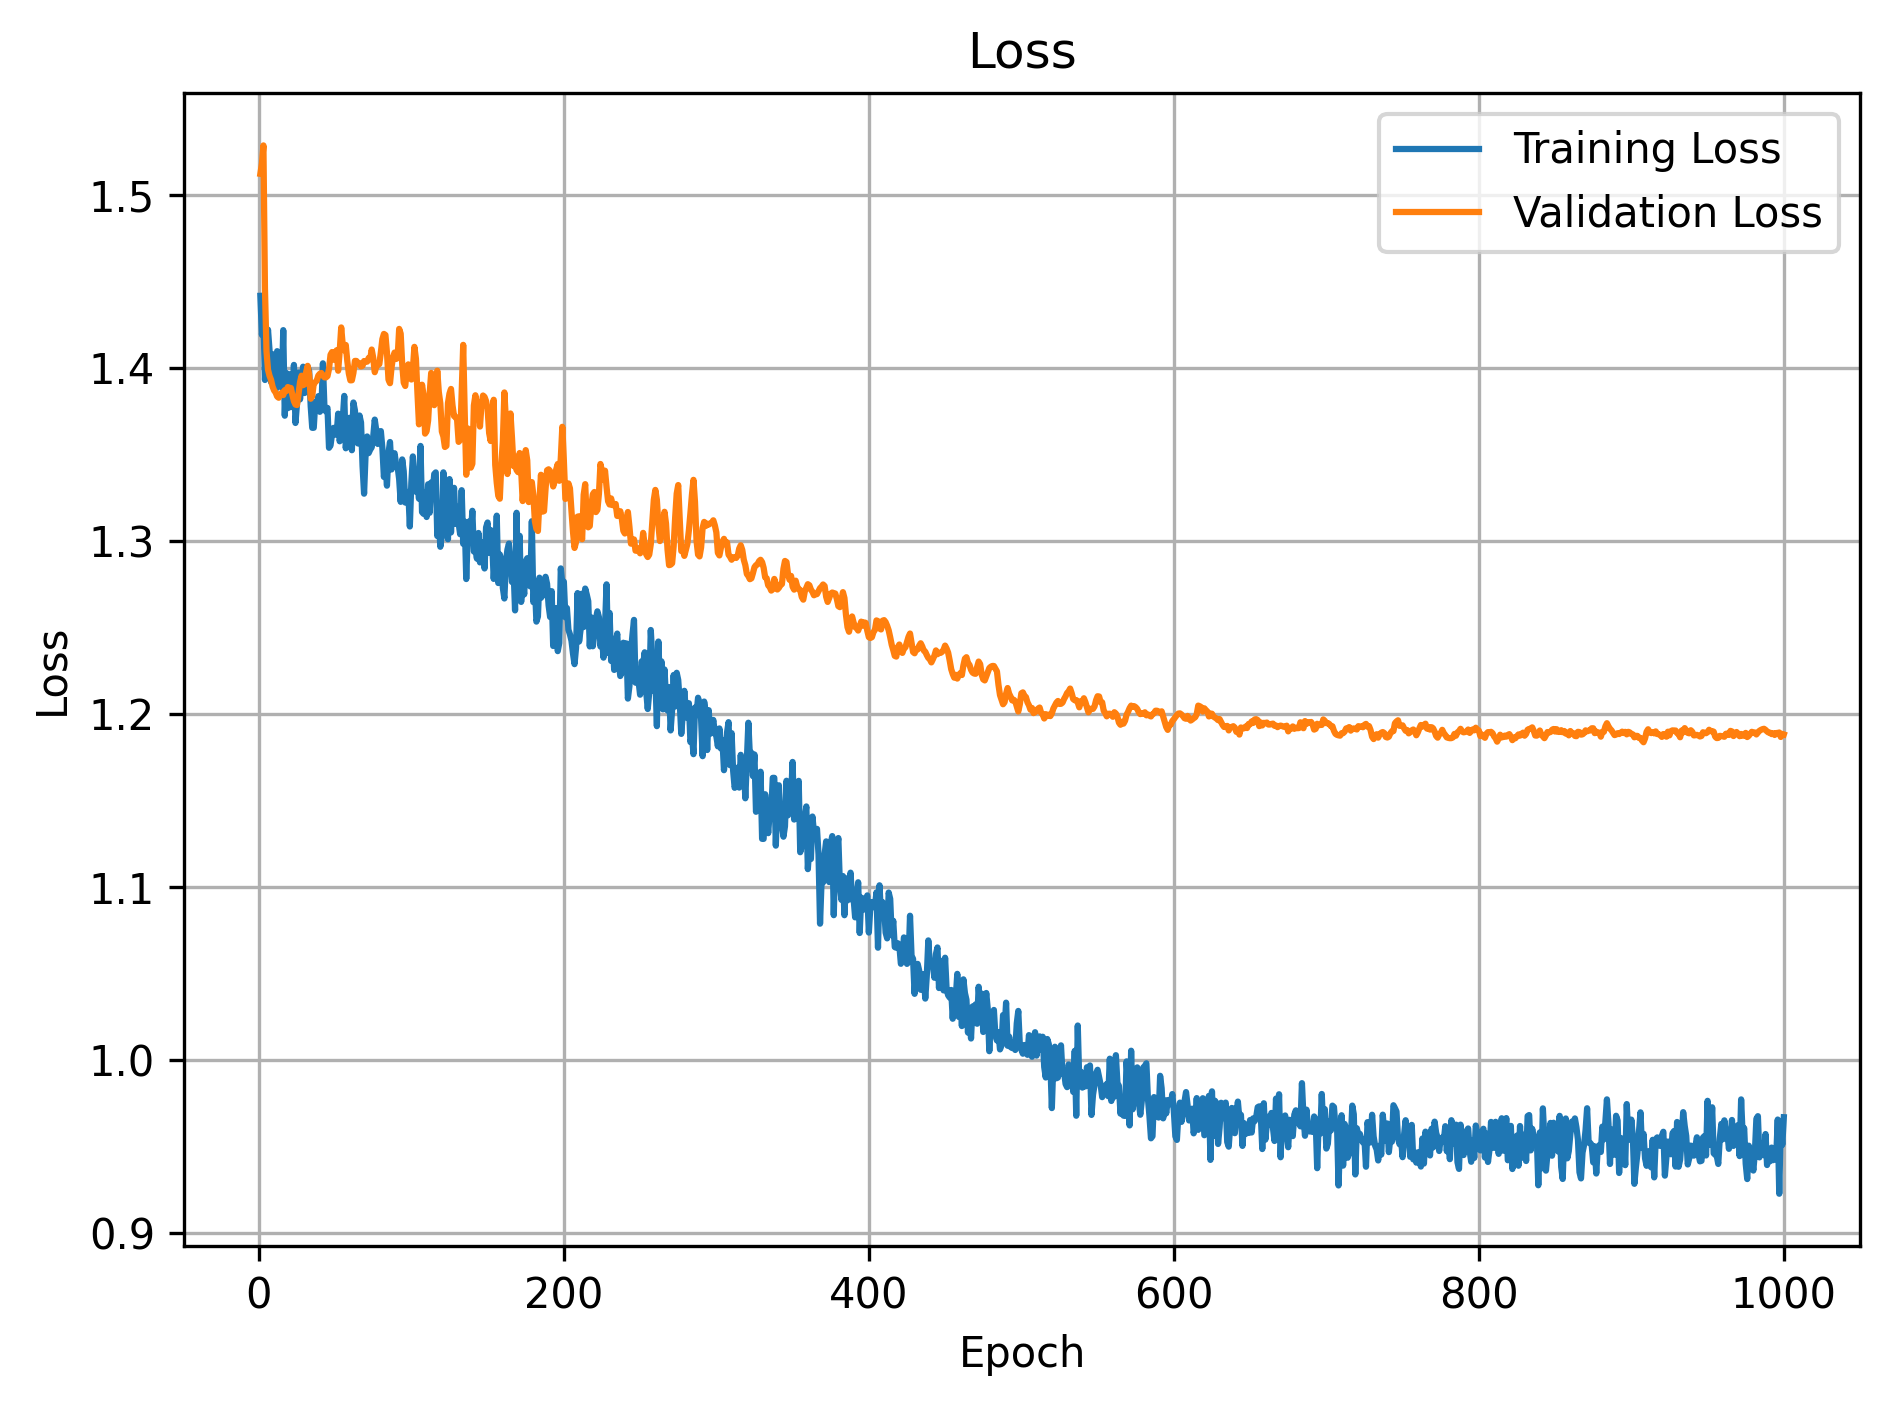
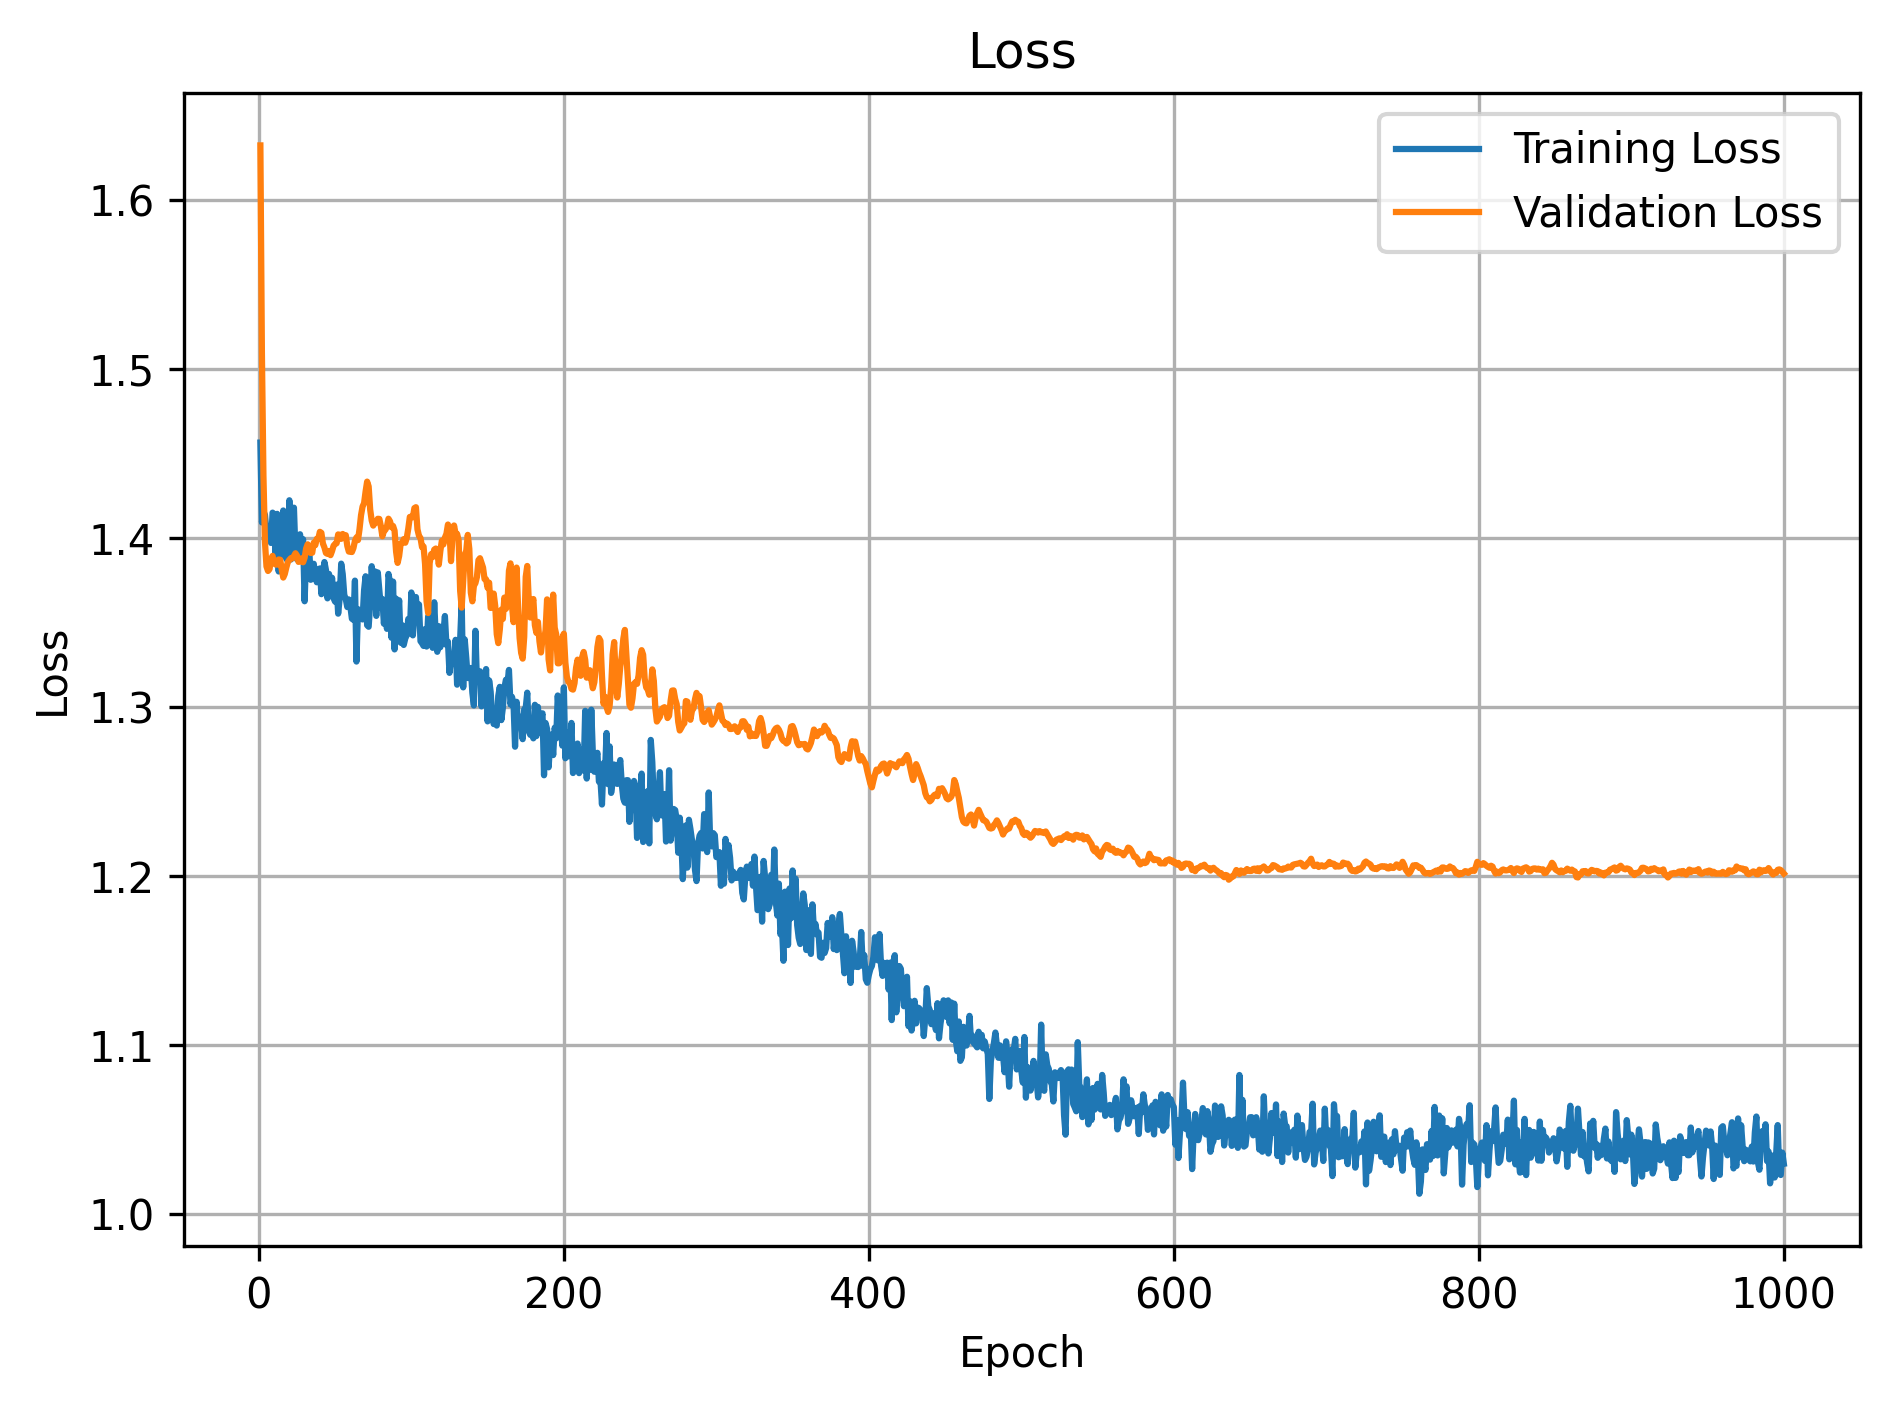
with file

Changed region(s): [[0.0312, 0.1223, 0.9677, 0.8869], [0.0624, 0.2447, 0.0937, 0.2752]]

diff --git a/EEG-classification/main.py b/EEG-classification/main.py
@@ -22,7 +22,7 @@ from ml_util.data_module import DataModule
 from ml_util.trainer import GoodClassificationModel, GoodTrainer
 from ml_util.logger import WandBLogger, print_stats, HistoryLogger
 from ml_util.reporter import getTestResults
-from ml_util.plot import plot_loss_acc, plot_confusion_matrix, plot3D
+from ml_util.plot import plot_loss_acc, plot_confusion_matrix, plot3D, write_test_acc
 
 # To make it reproducible
 torch.manual_seed(42)
@@ -203,4 +203,5 @@ if verbose:
     plot_loss_acc(historyLogger.history, fileNameBase="fig/history")
     test_preds, test_labels = res["test_confusion"]
     plot_confusion_matrix(test_preds, test_labels, labelList, title="Test Confusion Matrix", fileName="fig/test_confusion_matrix.png")
+    write_test_acc(res['test_acc'], "fig/test_acc.txt")
 

diff --git a/EEG-classification/ml_util/plot.py b/EEG-classification/ml_util/plot.py
@@ -68,7 +68,7 @@ def plot_loss_acc(history, title="", fileNameBase=None):
     if fileNameBase:
         plt.savefig(fileNameBase+"_acc", dpi=300, bbox_inches='tight')
 
-def plot_confusion_matrix(y_pred, y_true, labels, title="",fileName=None):
+def plot_confusion_matrix(y_pred, y_true, labels, title="",fileName=None, accFileName=None):
     plt.figure()
     y_pred = y_pred.cpu().numpy()
     y_true = y_true.cpu().numpy()
@@ -84,3 +84,7 @@ def plot_confusion_matrix(y_pred, y_true, labels, title="",fileName=None):
     plt.title(title)
     if fileName:
         plt.savefig(fileName, dpi=300, bbox_inches='tight')
+
+def write_test_acc(test_acc, filename):
+    with open(filename, 'w') as f:
+        f.write(f"{test_acc}")

diff --git a/EEG-classification/the_ml/bigmodel.py b/EEG-classification/the_ml/bigmodel.py
@@ -9,8 +9,8 @@ def model(x_example, hyperparameters):
     return nn.Sequential(
         nn.BatchNorm2d(num_channels),
         ConvLayer(num_channels, num_channels*4, 0.5, 5),
-        ConvLayer(num_channels*4, num_channels*2, 0.4, 5),
-        ConvLayer(num_channels*2, num_channels, 0.4, 5),
+        ConvLayer(num_channels*4, num_channels*2, 0.5, 5),
+        ConvLayer(num_channels*2, num_channels, 0.5, 5),
         nn.Flatten(),
         LinearLayer(num_channels*h*w, 128, 0.75),
         nn.Linear(128, 4)
